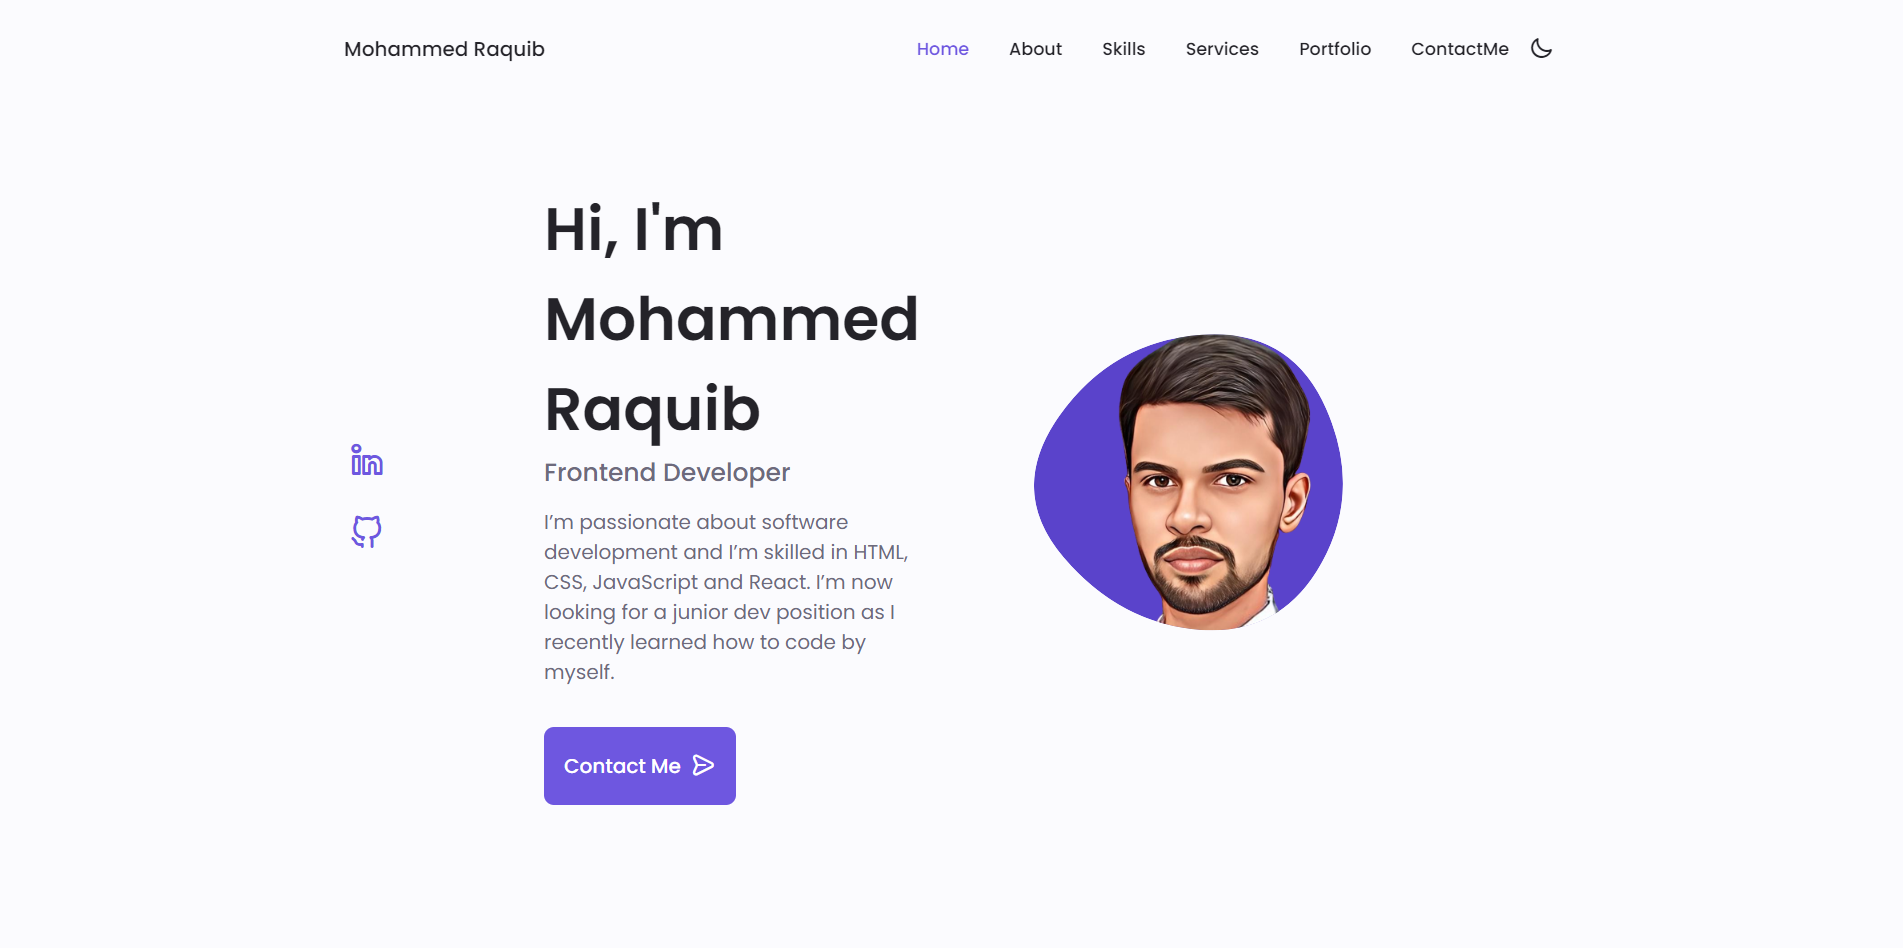
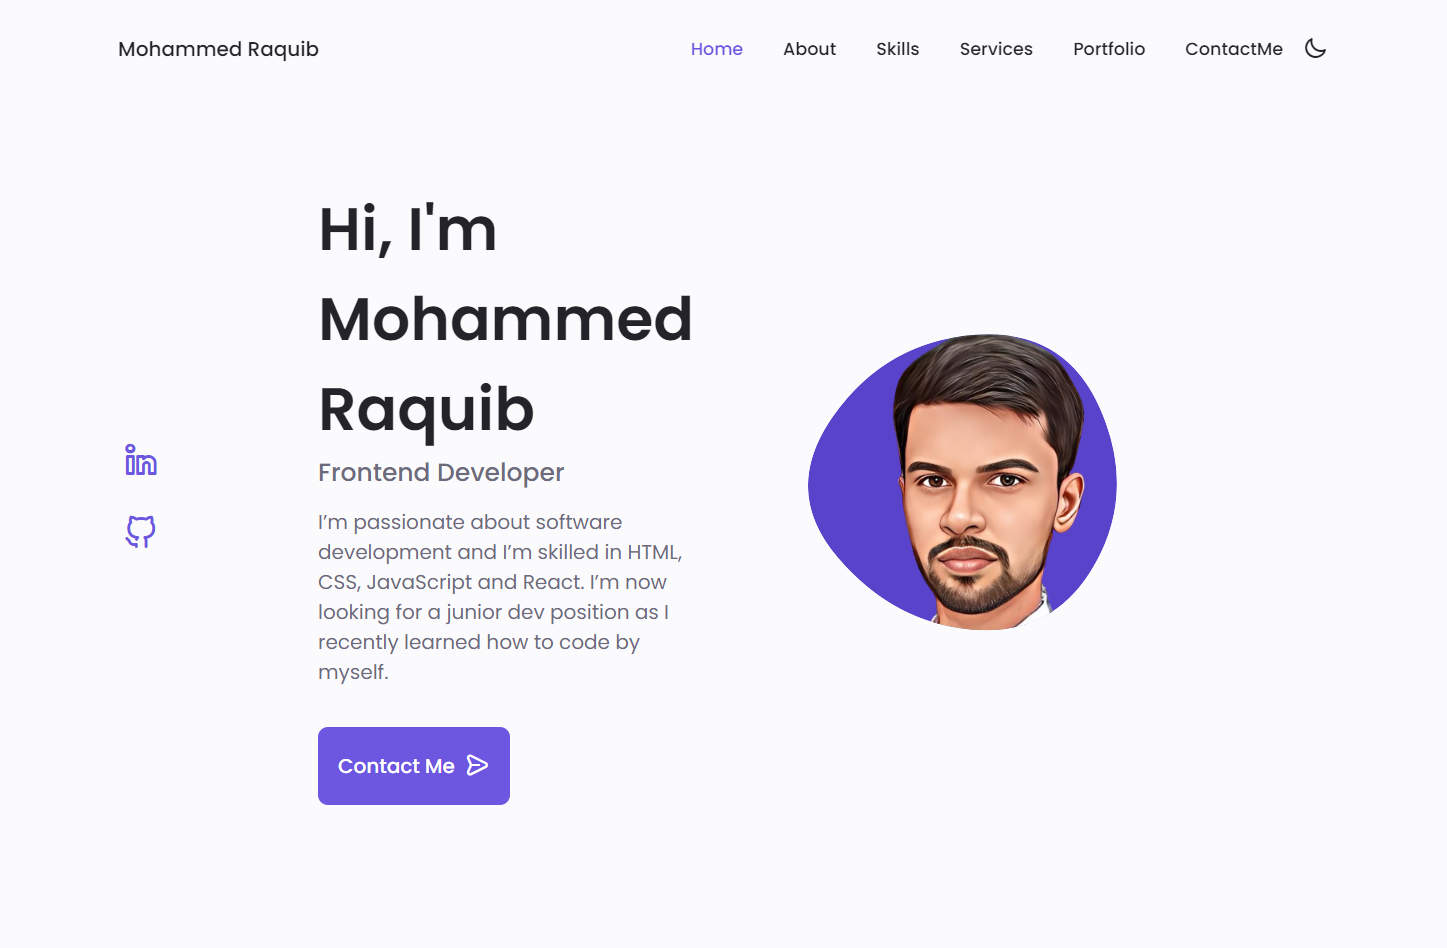
updted email and images

diff --git a/index.html b/index.html
@@ -9,7 +9,7 @@
 
     <!-- ****************Unicons**************** -->
     <link rel="stylesheet" href="https://unicons.iconscout.com/release/v4.0.0/css/line.css">
-    
+
     <!-- ***************Swiper CSS**************** -->
     <link rel="stylesheet" href="assets/css/swiper-bundle.min.css">
     
@@ -88,7 +88,7 @@
                                 <path d="M368.5,315Q327,390,243.5,384.5Q160,379,100.5,309.5Q41,240,96,162.5Q151,85,244,78.5Q337,72,373.5,156Q410,240,368.5,315Z" />
                             </g>
                             <image class="home__blob-img" x="90" y="30" width="100%" height="100%" clip-path="url(#blob)"
-                                xlink:href="assets/images/blobimage2.png"
+                                xlink:href="assets/Images/blobimage.png"
                                 preserveAspectRatio="xMidYMid slice"></image>
                         </svg>
                     </div>
@@ -111,7 +111,7 @@
             <span class="section__subtitle">My introduction</span>
 
             <div class="about__container container grid">
-                <img src="assets/images/Aboutimg.jpeg" alt="" class="about__img">
+                <img src="assets/Images/Aboutimg.jpeg" alt="" class="about__img">
 
                 <div class="about__data">
                     <p class="about__description">Iam a self taught frontend developer. I primarily focus on writing clean, elegant and efficient code.</p>
@@ -319,7 +319,7 @@
                 <div class="swiper-wrapper">
                     <!-- ****************Portfolio 1****************** -->
                     <div class="portfolio__content grid swiper-slide">
-                        <img src="assets/images/Portfolio1.PNG" alt="" class="portfolio__img">
+                        <img src="assets/Images/Portfolio1.PNG" alt="" class="portfolio__img">
 
                         <div class="portfolio__data">
                             <h3 class="portfolio__title">Form Validation</h3>
@@ -335,7 +335,7 @@
 
                     <!-- ****************Portfolio 2****************** -->
                     <div class="portfolio__content grid swiper-slide">
-                        <img src="assets/images/Portfolio2.PNG" alt="" class="portfolio__img">
+                        <img src="assets/Images/Portfolio2.PNG" alt="" class="portfolio__img">
                     
                         <div class="portfolio__data">
                             <h3 class="portfolio__title">Weather App</h3>
@@ -351,7 +351,7 @@
 
                     <!-- ****************Portfolio 3****************** -->
                     <div class="portfolio__content grid swiper-slide">
-                        <img src="assets/images/Portfolio3.PNG" alt="" class="portfolio__img">
+                        <img src="assets/Images/Portfolio3.PNG" alt="" class="portfolio__img">
                     
                         <div class="portfolio__data">
                             <h3 class="portfolio__title">Todo List</h3>
@@ -419,7 +419,7 @@
                         
                         <div>
                             <h3 class="contact__title">Email</h3>
-                            <span class="contact__subtitle">raquib@gmail.com</span>
+                            <span class="contact__subtitle">mraquib46@gmail.com</span>
                         </div>
                     </div>
 
@@ -436,27 +436,27 @@
                 <form action="" class="contact__form grid">
                     <div class="contact__inputs grid">
                         <div class="contact__content">
-                            <label for="" class="contact__label">Name</label>
-                            <input type="text" class="contact__input">
+                            <label for="name" class="contact__label">Name</label>
+                            <input type="text" class="contact__input" id="name" required>
                         </div>
 
                         <div class="contact__content">
-                            <label for="" class="contact__label">Email</label>
-                            <input type="email" class="contact__input">
+                            <label for="email" class="contact__label">Email</label>
+                            <input type="email" class="contact__input" id="email" required>
                         </div>
                     </div>
                     <div class="contact__content">
-                        <label for="" class="contact__label">Project</label>
-                        <input type="text" class="contact__input">
+                        <label for="project" class="contact__label">Project</label>
+                        <input type="text" class="contact__input" id="project">
                     </div>
 
                     <div class="contact__content">
-                        <label for="" class="contact__label">Message</label>
-                        <textarea name="" id="" cols="0" rows="7" class="contact__input"></textarea>
+                        <label for="message" class="contact__label">Message</label>
+                        <textarea name="message" id="message" rows="7" class="contact__input" style="resize:none" required></textarea>
                     </div>
 
                     <div>
-                        <a href="#" class="button button--flex">
+                        <a href="#" class="button button--flex" onclick="sendMail()">
                             Send Message
                             <i class="uil uil-message button__icon"></i>
                         </a>
@@ -507,11 +507,21 @@
     <a href="#" class="scrollup" id="scroll-up">
         <i class="uil uil-arrow-up scrollup__icon"></i>
     </a>
-    
+
     <!-- ********************Swiper JS****************** -->
     <script src="https://cdn.jsdelivr.net/npm/swiper/swiper-bundle.min.js"></script>
-    
+
     <script src="script.js"></script>
 
+    ****************Email JS**************
+    <script type="text/javascript"
+        src="https://cdn.jsdelivr.net/npm/@emailjs/browser@3/dist/email.min.js">
+    </script>
+    <script type="text/javascript">
+    (function(){
+        emailjs.init("67f9C4SKlKL5wllu1");
+    })();
+    </script>
 </body>
 </html>
+

diff --git a/script.js b/script.js
@@ -133,4 +133,26 @@ themeButton.addEventListener('click', () => {
     localStorage.setItem('selected-icon', getCurrentIcon())
 })
 
+function sendMail(){
+    var params = {
+    name:  document.getElementById("name").value,   
+    email:  document.getElementById("email").value,
+    project:  document.getElementById("project").value,
+    message:  document.getElementById("message").value
+};
 
+const serviceId = "service_0k4adxl";
+const templateId = "template_6jjnvye";
+
+    emailjs.send(serviceId, templateId, params)
+    .then(
+         res => {
+        document.getElementById("name").value = "";
+        document.getElementById("email").value = "";
+        document.getElementById("project").value = "";
+        document.getElementById("message").value = "";
+        alert("Message sent successfully");
+        }
+    )
+    .catch((error) => console.log(error));
+}
